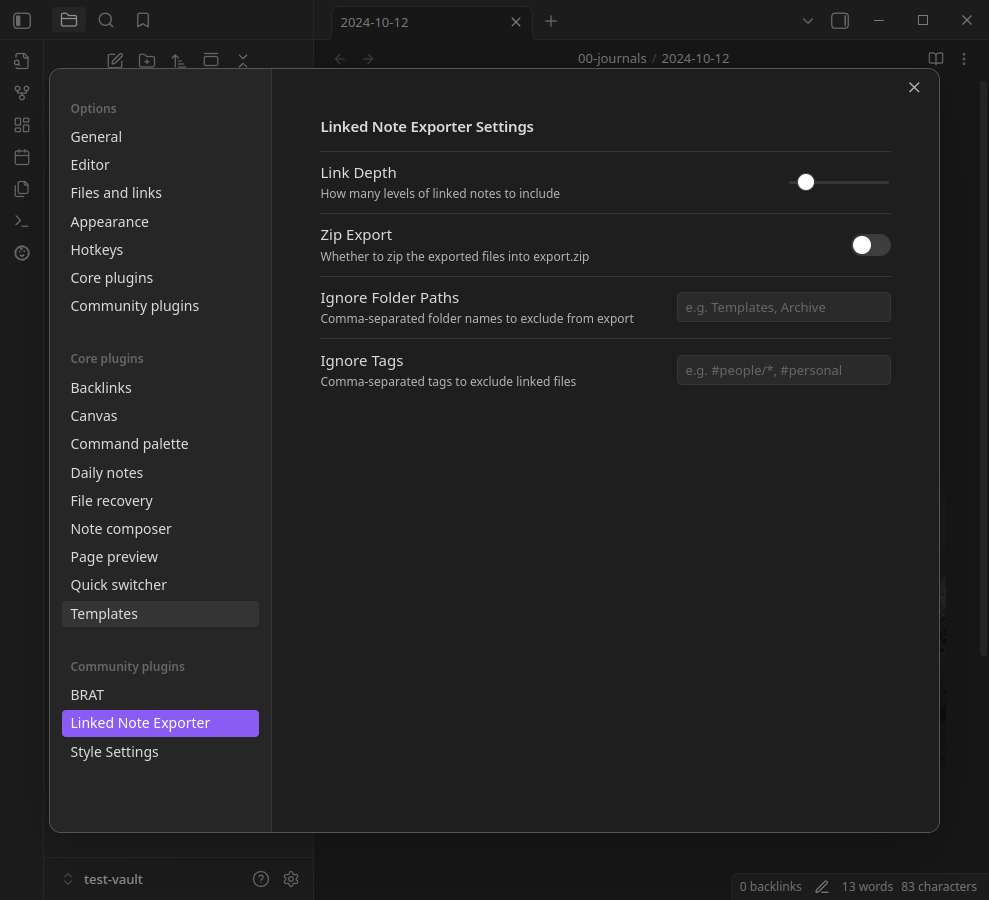
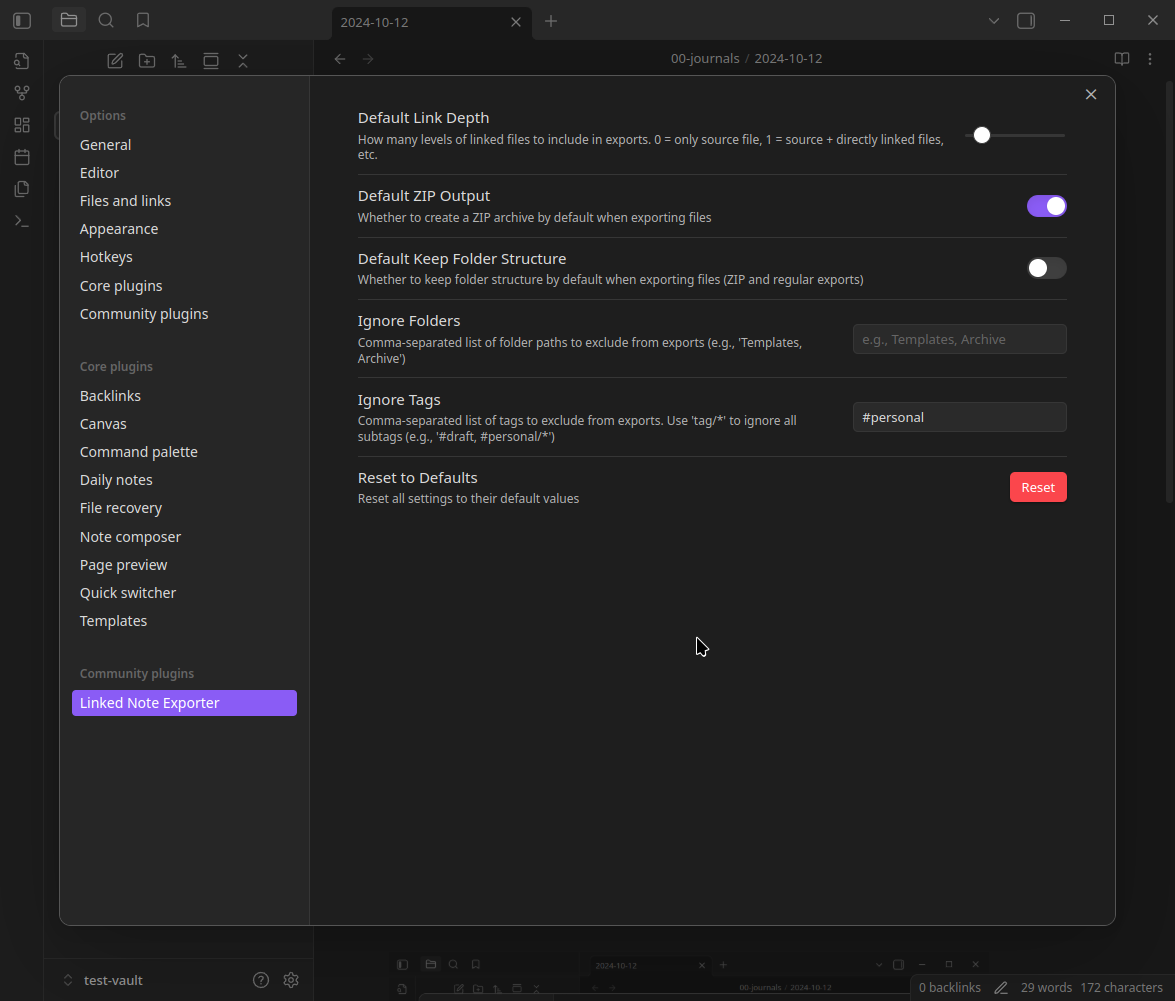
Updated readme, screenshots

diff --git a/README.md b/README.md
@@ -1,6 +1,6 @@
 # Linked Note Exporter
 
-Export a note along with all its attachments and linked notes—cleanly, conveniently, and outside your vault.
+Export a note along with all its attachments and linked notes—cleanly, conveniently, and outside your vault so you can share it with others.
 
 ## ✨ Features
 
@@ -37,9 +37,9 @@ You’ve crafted a beautiful note with images and cross-links—but sharing it w
 
 -   If enabled, the exported files will be zipped into `export.zip` inside the target directory.
 
-### `Maintain Folder Structure`
+### `Keep Folder Structure`
 
--   If enabled, the export files or zip will maintain the same directory structure as the original file path
+-   If enabled, the export files or zip will maintain the same directory structure as the original file path.
 
 ### `Ignore Folders`
 
